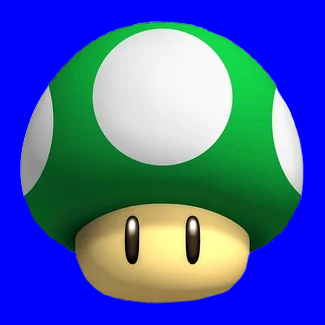
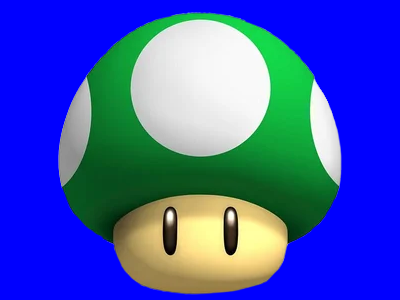
.

Changed region(s): [[0.0615, 0.03, 0.9538, 0.99]]

diff --git a/base_jogo_daniel.py b/base_jogo_daniel.py
@@ -24,7 +24,6 @@ font_size = 50
 #Cores
 WHITE = (255, 255, 255)
 BLACK = (0, 0, 0)
-BLACK = (0, 0, 0)
 RED = (255, 0, 0)
 GREEN = (0, 255, 0)
 BLUE = (0, 0, 255)
@@ -204,7 +203,7 @@ def imagem_aleatoria():
 
     rotate = [obs_img1,obs_img2,obs_img3,obs_img4,obs_img5,obs_img6]
 
-    return pygame.transform.scale(rotate[random.randint(0, 5)], (200,200))
+    return pygame.transform.scale(rotate[random.randint(0, 5)], (260,200))
 
 #Classe obstaculos
 class Obstaculo(pygame.sprite.Sprite):
@@ -243,10 +242,10 @@ class aumentavida(pygame.sprite.Sprite):
         self.y = y
         self.width = width
         self.height = height
-        self.vel = 10
+        self.vel = 8
 
         imagex = pygame.image.load(path.join(obs_dir, "mushroom 1up.png")).convert()
-        self.image = pygame.transform.scale(imagex,(100,100))
+        self.image = pygame.transform.scale(imagex,(160,120))
         self.rect = self.image.get_rect()
         self.image.set_colorkey(BLUE)
         self.rect.x = x
@@ -380,7 +379,7 @@ def pause():
 
 # Carrega os sons do jogo
 pygame.mixer.music.load(path.join(snr_dir, 'kirby_star_ride.ogg'))
-pygame.mixer.music.set_volume(0.4)
+pygame.mixer.music.set_volume(0.5)
 
 #Carrega as Imagens de Fundo e da plataforma de chao
 fundo = pygame.image.load(path.join(cenarios_dir,'imagem_de_fundo.png')).convert()
@@ -456,7 +455,7 @@ while running:
         if event.type == USEREVENT+1:
             r = random.randrange(0,2)
             if r == 0 or r == 1:
-                new_obstacle2 = aumentavida(1270, HEIGHT-250, 100, 100)
+                new_obstacle2 = aumentavida(1270, HEIGHT-250, 50, 50)
                 maisvida.add(new_obstacle2)
                 all_sprites.add(new_obstacle2)
 
